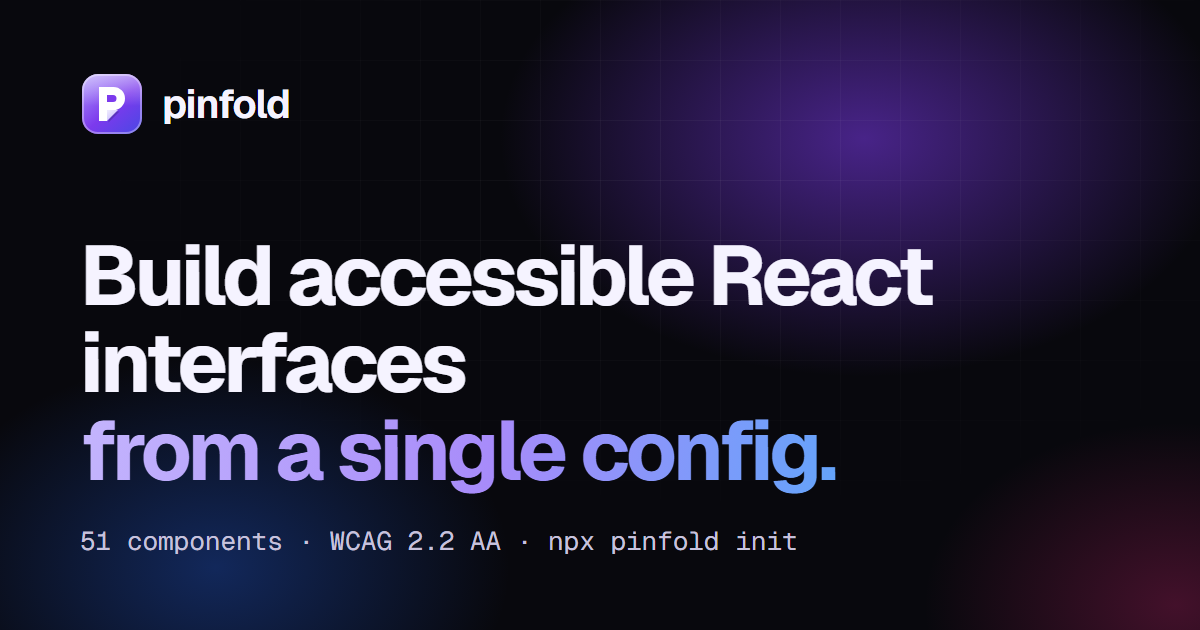
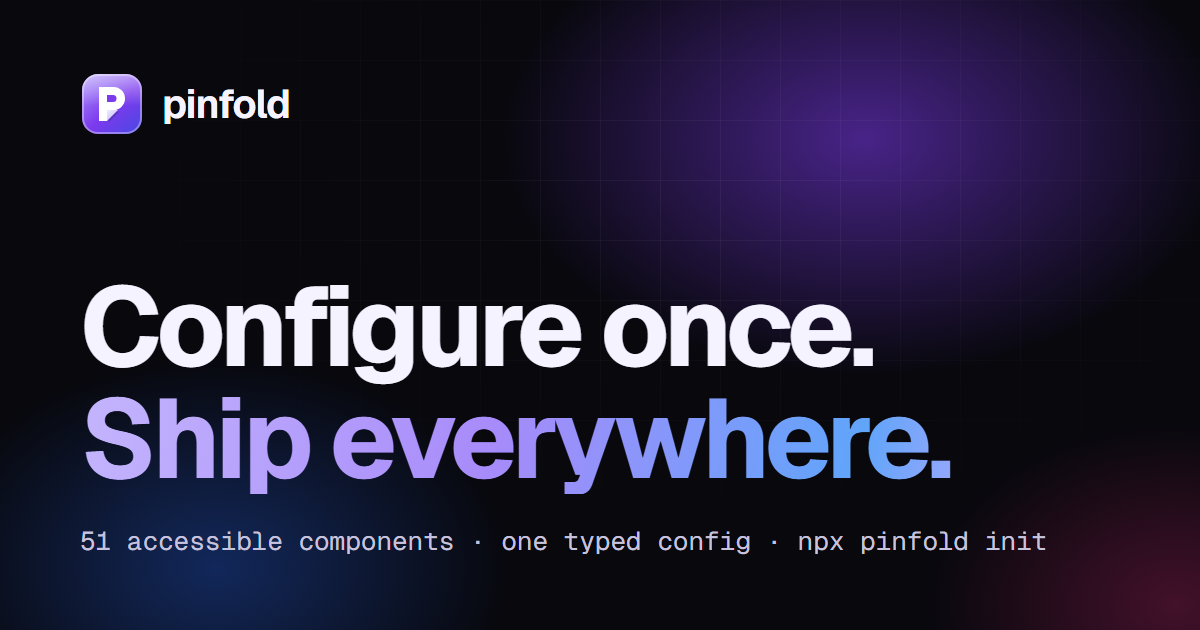
Landing: Configure once. Ship everywhere.

Changed region(s): [[0.0617, 0.3619, 0.8017, 0.7841], [0.0925, 0.8444, 0.8942, 0.8746]]

diff --git a/src/pages/Landing.tsx b/src/pages/Landing.tsx
@@ -83,11 +83,11 @@ function Hero() {
         <ArrowRight size={14} aria-hidden="true" />
       </a>
       <h1 id="hero-title" className="dx-hero2__title">
-        <span>Build accessible React interfaces</span>
-        <span className="dx-hero2__shine">from a single config.</span>
+        <span>Configure once.</span>
+        <span className="dx-hero2__shine">Ship everywhere.</span>
       </h1>
       <p className="dx-hero2__lede">
-        Pinfold is a typed component library for React. Each of its {COUNT} accessible components, from data grids to date pickers, is driven by one configuration object: server-ready, themeable in any colour format, and customisable down to every part.
+        The typed React component library driven by a single config object. Fully accessible, endlessly themeable, zero friction.
       </p>
       <div className="dx-hero2__cta" data-cursor="go">
         <Primary label="Get started" href={docsHref('introduction')} endIcon={<ArrowRight size={16} aria-hidden="true" />} />

diff --git a/index.html b/index.html
@@ -13,8 +13,8 @@
     <link rel="alternate" type="text/plain" href="/llms.txt" title="llms.txt" />
     <meta property="og:type" content="website" />
     <meta property="og:site_name" content="Pinfold" />
-    <meta property="og:title" content="Pinfold: build accessible React interfaces from a single config" />
-    <meta property="og:description" content="A typed component library for React: 51 accessible components, from data grids to date pickers, each driven by one configuration object." />
+    <meta property="og:title" content="Pinfold: configure once, ship everywhere" />
+    <meta property="og:description" content="The typed React component library driven by a single config object. Fully accessible, endlessly themeable, zero friction." />
     <meta property="og:url" content="https://pinfold.indranildev.in/" />
     <meta property="og:image" content="https://pinfold.indranildev.in/og.png" />
     <meta property="og:image:width" content="1200" />

diff --git a/src/site.css b/src/site.css
@@ -458,7 +458,7 @@ a:not(.pinfold, .pinfold *) { color: inherit; }
   transition: border-color 0.2s;
 }
 .dx-pill:hover { border-color: color-mix(in oklab, var(--pinfold-primary-500) 55%, transparent); }
-.dx-hero2__title { display: flex; flex-direction: column; align-items: center; margin: 0; font-size: clamp(2.25rem, 1.1rem + 4.2vw, 4.25rem); font-weight: 680; line-height: 1.06; letter-spacing: -0.042em; text-wrap: balance; }
+.dx-hero2__title { display: flex; flex-direction: column; align-items: center; margin: 0; font-size: clamp(2.6rem, 1.2rem + 6vw, 5.5rem); font-weight: 700; line-height: 1.02; letter-spacing: -0.05em; text-wrap: balance; }
 .dx-hero2__shine {
   padding-block-end: 0.08em;
   background: linear-gradient(100deg, #c4b5fd 0%, #a78bfa 25%, #60a5fa 50%, #f0abfc 75%, #c4b5fd 100%);
